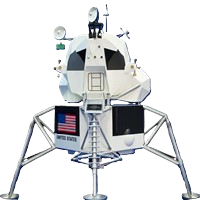
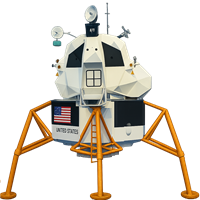
add spectacular parallax + orange zampette + fix + etc

diff --git a/llander.html b/llander.html
@@ -75,10 +75,11 @@ let gravity = 0.0075;
 let shipPieces = [];//kaboom
 let shipSmoke = [];//nuvoletta
 let tdelta = 15;//quanto accidentato il terreno
+let tpieces = 200;//in quanti segmenti suddividere lo schermo in orizzontale
 let minLandingSpeed = 0.5;
 let minLandingAngle = 5;
 let landingSize = 1.5;//quanto larghe le piazzole di sosta
-let maxSpeed = 2.5;//velocita max
+let maxSpeed = 5;//velocita max
 let godMode = false;
 
 let starsList = [];//stelle
@@ -94,10 +95,17 @@ let shipImgReady = false;
 shipImg.onload = () => {
     shipImgReady = true;
 };
+//real earth
 const earthImg = new Image(); earthImg.src = 'earth.png';
 let earthImgReady = false;
 earthImg.onload = () => {
     earthImgReady = true;
+};
+//mountains parallax
+const mountainsImg = new Image(); mountainsImg.src = 'mountains.png';
+let mountainsImgReady = false;
+mountainsImg.onload = () => {
+    mountainsImgReady = true;
 };
 
 let currentColor = 0;//color change
@@ -140,7 +148,7 @@ function createTerrain() {
     mainTerrain.vertices = [];
     mainTerrain.landingPlaces = [];
 
-    const stepX = vpW / 200;
+    const stepX = vpW / tpieces;
     const baseY = vpH * 0.8;
     let x = 0;
     let y = baseY;
@@ -173,7 +181,8 @@ function createTerrain() {
             nextLandingStep += landingInterval;
         } else {
             //terreno ondulato normale
-            y += rnd(-tdelta, tdelta);
+            //y += rnd(-tdelta, tdelta);
+			y = y * 0.25 + (y + rnd(-tdelta, tdelta)) * 0.75;
             mainTerrain.vertices.push(new Point(x, y));
             x += stepX;
         }
@@ -186,13 +195,14 @@ function createTerrain() {
 
 function updateTerrain() {
     const buffer = vpW; //margine extra prima di generare terreno
-    const stepX = vpW / 200;
+    const stepX = vpW / tpieces;
 
     //estende a dx
     while(ship.position.x + buffer > mainTerrain.vertices[mainTerrain.vertices.length-1].x){
         let lastVertex = mainTerrain.vertices[mainTerrain.vertices.length-1];
         let x = lastVertex.x + stepX;
-        let y = lastVertex.y + rnd(-tdelta, tdelta);
+        //let y = lastVertex.y + rnd(-tdelta, tdelta);
+		let y = lastVertex.y * 0.25 + (lastVertex.y + rnd(-tdelta, tdelta)) * 0.75;
 
         //landing line casuale
         if(Math.random() < 0.03){
@@ -216,7 +226,8 @@ function updateTerrain() {
 	while(ship.position.x - buffer < mainTerrain.vertices[0].x){
 		let firstVertex = mainTerrain.vertices[0];
 		let x = firstVertex.x - stepX;
-		let y = firstVertex.y + rnd(-tdelta, tdelta);
+		//let y = firstVertex.y + rnd(-tdelta, tdelta);
+		let y = firstVertex.y * 0.25 + (firstVertex.y + rnd(-tdelta, tdelta)) * 0.75;
 
 		if(Math.random() < 0.03){
 			const landingWidth = ship.size.width * landingSize;
@@ -233,10 +244,10 @@ function updateTerrain() {
 
 
     //toglie vertici lontani
-    while(mainTerrain.vertices.length > 200 && mainTerrain.vertices[0].x < ship.position.x - buffer*2){
+    while(mainTerrain.vertices.length > tpieces && mainTerrain.vertices[0].x < ship.position.x - buffer*2){
         mainTerrain.vertices.shift();
     }
-    while(mainTerrain.vertices.length > 200 && mainTerrain.vertices[mainTerrain.vertices.length-1].x > ship.position.x + buffer*2){
+    while(mainTerrain.vertices.length > tpieces && mainTerrain.vertices[mainTerrain.vertices.length-1].x > ship.position.x + buffer*2){
         mainTerrain.vertices.pop();
     }
 }
@@ -355,8 +366,8 @@ function moveShip(){
 	}	
 	
     for(const key of keyList){
-        if(key==='ArrowRight') ship.angle += 0.5;
-        if(key==='ArrowLeft') ship.angle -= 0.5;
+        if(key==='ArrowRight') { ship.angle += 0.5; if(ship.angle === 360) ship.angle = 0; }
+        if(key==='ArrowLeft') { ship.angle -= 0.5; if(ship.angle === -360) ship.angle = 0; }
         if(key==='ArrowUp' && ship.fuel > 0){
             if (!godMode) ship.fuel = Math.max(0, ship.fuel - 1);
             ship.speed.x += Math.sin(degToRad(ship.angle))*0.0175;
@@ -431,7 +442,7 @@ function checkCollision() {
 		
         for (const e of edges) {
             if (segmentsIntersect(e[0], e[1], A, B)) {
-                if (nearCenterX && nearCenterY && ship.speed.y < minLandingSpeed && Math.abs(ship.angle % 360) < minLandingAngle) {
+                if (nearCenterX && nearCenterY && ship.speed.y < minLandingSpeed && ship.speed.x < minLandingSpeed && Math.abs(ship.angle % 360) < minLandingAngle) {
 					ship.landed = true;
                     ship.speed.x = 0;
                     ship.speed.y = 0;
@@ -443,6 +454,7 @@ function checkCollision() {
                     return;
                 } else {
                     if (!godMode) explodeShip();
+					else { ship.speed.x = 0; ship.speed.y *= -1; ship.position.y = getTerrainYAtX(ship.position.x) - ship.size.height; }
                     return;
                 }
             }
@@ -457,6 +469,7 @@ function checkCollision() {
         for (const e of edges) {
             if (segmentsIntersect(e[0], e[1], A, B)) {
                 if (!godMode) explodeShip();
+				else { ship.speed.x = 0; ship.speed.y *= -1; ship.position.y = getTerrainYAtX(ship.position.x) - ship.size.height; }
                 return;
             }
         }
@@ -546,23 +559,32 @@ function drawRealEarth(x, y, r) {
 	
 	ctx.drawImage(earthImg, x - r, y - r, r*2, r*2);
 	
-	//atmosfera
-    ctx.beginPath();
-    ctx.arc(x, y, r - 2, 0, Math.PI * 2);
-    ctx.strokeStyle = 'rgba(255,255,255,0.2)';
-    ctx.lineWidth = 12;
-    ctx.stroke();
-	ctx.lineWidth = 1;
-	
 	//notte
-	const night = ctx.createRadialGradient(x - 10, y - 10, 10, x, y, r);
+	drawNight(x, y, r);
+}
+
+//atmosfera
+function drawAtmos(x, y, r) {
+	ctx.beginPath();
+    ctx.arc(x, y, r * 1.5, 0, Math.PI * 2);
+    const atmos = ctx.createRadialGradient(x, y, 0, x, y, r * 1.5);
+	atmos.addColorStop(0, 'rgba(255,255,255,0.5)');
+    atmos.addColorStop(1, 'rgba(255,255,255,0)');
+	ctx.fillStyle = atmos;
+	ctx.closePath();
+	ctx.fill();
+}
+
+//notte
+function drawNight(x, y, r) {
+	const night = ctx.createRadialGradient(x - r, y - r, r, x - r, y - r, r*2);
     night.addColorStop(0, 'rgba(0,0,0,0)');
-    night.addColorStop(1, 'rgba(0,0,0,0.5)');
-    ctx.beginPath();
+	night.addColorStop(1, 'rgba(0,0,0,1)');
+	ctx.beginPath();
     ctx.arc(x, y, r, 0, Math.PI * 2);
     ctx.fillStyle = night;
     ctx.fill();
-} 
+}
 
 //madreterra
 function drawEarth() {
@@ -573,16 +595,18 @@ function drawEarth() {
     const x = vpW - 100;
     const y = 60;
 
+	//atmosfera
+	drawAtmos(x, y, r);
+	
 	if(textureEnabled === 2 && earthImgReady) return drawRealEarth(x, y, r);
 	
-    
     //oceano
-    const ocean = ctx.createRadialGradient(x - 20, y - 20, 10, x, y, r);
+    const ocean = ctx.createRadialGradient(x - r/2, y - r/2, 0, x, y, r);
 	ocean.addColorStop(0, '#4bf');//blu
 	ocean.addColorStop(1, '#003');
 	
 	//terra
-	const green = ctx.createRadialGradient(x - 20, y - 20, 10, x, y, r);
+	const green = ctx.createRadialGradient(x - r/2, y - r/2, 0, x, y, r);
 	green.addColorStop(0, '#2a3');//verdone
 	green.addColorStop(1, '#030');
 	
@@ -598,22 +622,7 @@ function drawEarth() {
 	drawContinent(x + 20, y + 4, 10, 6, 12);//africa 
 	
 	//notte
-    const night = ctx.createRadialGradient(x - 10, y - 10, 10, x, y, r);
-    night.addColorStop(0, 'rgba(0,0,0,0)');
-    night.addColorStop(1, 'rgba(0,0,0,0.5)');
-
-    ctx.beginPath();
-    ctx.arc(x, y, r, 0, Math.PI * 2);
-    ctx.fillStyle = night;
-    ctx.fill();
-
-    //atmosfera
-    ctx.beginPath();
-    ctx.arc(x, y, r - 2, 0, Math.PI * 2);
-    ctx.strokeStyle = 'rgba(255,255,255,0.2)';
-    ctx.lineWidth = 6;
-    ctx.stroke();
-	ctx.lineWidth = 1;
+	drawNight(x, y, r);
 }
 
 //continenti frastagliati
@@ -650,8 +659,7 @@ function seededRandom(seed) {
 
 //terreno lunare
 function drawTerrain() {
-	console.log('myCam: '+myCam.scale+' '+myCam.position.y);
-    ctx.save();
+	ctx.save();
 	
     //porta il canvas nello spazio mondo
     ctx.scale(myCam.scale, myCam.scale);
@@ -703,7 +711,7 @@ function drawTerrain() {
     }
 
     //contorno
-    ctx.strokeStyle = COLORS[currentColor];
+    ctx.strokeStyle = textureEnabled ? COLORS_ALPHA[currentColor].replace('xxx','0.25') : COLORS[currentColor];
     ctx.lineWidth = 1 / myCam.scale;
     ctx.stroke();
 
@@ -717,6 +725,26 @@ function drawTerrain() {
     }
 
     ctx.restore();
+}
+
+
+//montagne lunari
+function drawRealMountains() {
+	if(!textureEnabled || !mountainsImgReady) return;
+	
+	let offsetX = (-myCam.position.x * 0.3) % mountainsImg.width;//veloce 1/3
+	if (offsetX < 0) offsetX += mountainsImg.width;
+	let offsetY = -myCam.position.y * 0.3;//dal basso, veloce 1/3
+	
+	for (let x = -2; x <= 2; x++) {
+		ctx.drawImage(
+			mountainsImg,
+			offsetX + x * mountainsImg.width,
+			offsetY + canvas.height * 0.2,//(myCam.position.y * 0.3) % mountainsImg.height,//dall'alto
+			mountainsImg.width,
+			canvas.height
+		);
+	}
 }
 
 
@@ -842,7 +870,7 @@ function drawShip() {
 	let golden = '#f80';//'#ccc';
 	
 	//ottagono (angolo parte da destra, sotto, sinistra, alto... sigh!
-	ctx.strokeStyle = textureEnabled ? '#444' : COLORS[currentColor];
+	ctx.strokeStyle = textureEnabled ? '#333' : COLORS[currentColor];
 	const radius = w * 0.28;
 	const sides = 6;
 	const startAngle = 2.4;
@@ -850,7 +878,7 @@ function drawShip() {
 	const step = (7.0-2.4)/sides;//(Math.PI * 2) / sides;
 		
 	ctx.beginPath();
-	for (i = 0; i <= sides; i++) { //let angle = startAngle; angle <= endAngle; angle += step) {
+	for (i = 0; i <= sides; i++) {
 		let angle = startAngle +  i * step;
 		const x = Math.cos(angle) * radius;
 		const y = Math.sin(angle) * radius - h * 0.2;
@@ -860,11 +888,11 @@ function drawShip() {
 	}
 	ctx.closePath();
 	if(textureEnabled) {
-		const gradCenterX = -w * 0.2;
+		const gradCenterX = -w * 0.5;
 		const gradCenterY = -h * 0.5;
 		const ballGradient = ctx.createRadialGradient(
-			gradCenterX, gradCenterY, radius * 0.1,// centro piccolo (oro)
-			gradCenterX, gradCenterY, radius * 2 // bordo
+			gradCenterX, gradCenterY, radius * 1,//centro piccolo
+			gradCenterX, gradCenterY, radius * 2.5 //bordo
 		);
 		ballGradient.addColorStop(0.0, '#fff');
 		ballGradient.addColorStop(1.0, '#000');
@@ -873,7 +901,7 @@ function drawShip() {
 	}	
 	ctx.stroke();
 	
-	//taglia eventuali segmenti che vanno oltre
+	//taglia eventuali segmenti che vanno oltre con rettangolone chiaro
 	ctx.beginPath();
 	ctx.fillStyle= textureEnabled ? '#ddd' : '#000';
 	ctx.fillRect(-w*0.22, 0, w*0.44, h*0.20);
@@ -882,6 +910,10 @@ function drawShip() {
 	if (textureEnabled) {
 		ctx.fillStyle='#222';
 		ctx.fillRect(-w*0.22, 0, w*0.44, h*0.14);
+		
+		//rettangolo centrale chiaro
+		ctx.fillStyle='#ddd';
+		ctx.fillRect(-w*0.05,0,w*0.10,h*0.14);
 	}
 	
     //rettangolo
@@ -1053,10 +1085,10 @@ function drawStats(){
 	ctx.textAlign = 'left';
 	let x1 = 16;
 	let x2 = vpW/2 - 48;
-	let x3 = vpW - 108;
+	let x3 = vpW - 128;
     ctx.fillText(`FUEL: ${ship.fuel.toFixed(1)} LBS`,x1,16);
     ctx.fillText(`ANGLE: ${ship.angle.toFixed(2)} DEG`,x1,32);
-	ctx.fillText(`ALT: ${(getTerrainYAtX(ship.position.x) - ship.position.y - ship.size.height/2).toFixed(2)} M`,x1,48);	
+	ctx.fillText(`ALT: ${((getTerrainYAtX(ship.position.x) - ship.position.y - ship.size.height/2)/10).toFixed(2)} M`,x1,48);//50px di navetta == 5mt
 	
 	ctx.fillText(`PX: ${ship.position.x.toFixed(2)}`,x2,16);
 	ctx.fillText(`PY: ${ship.position.y.toFixed(2)}`,x2,32);	
@@ -1079,7 +1111,8 @@ function update(){
 		updateTerrain();
 		updateCamera();
 		drawStars();
-		drawEarth();
+		drawRealMountains();
+		drawEarth();		
 		drawTerrain();
 		drawShip();
 		drawStats();
